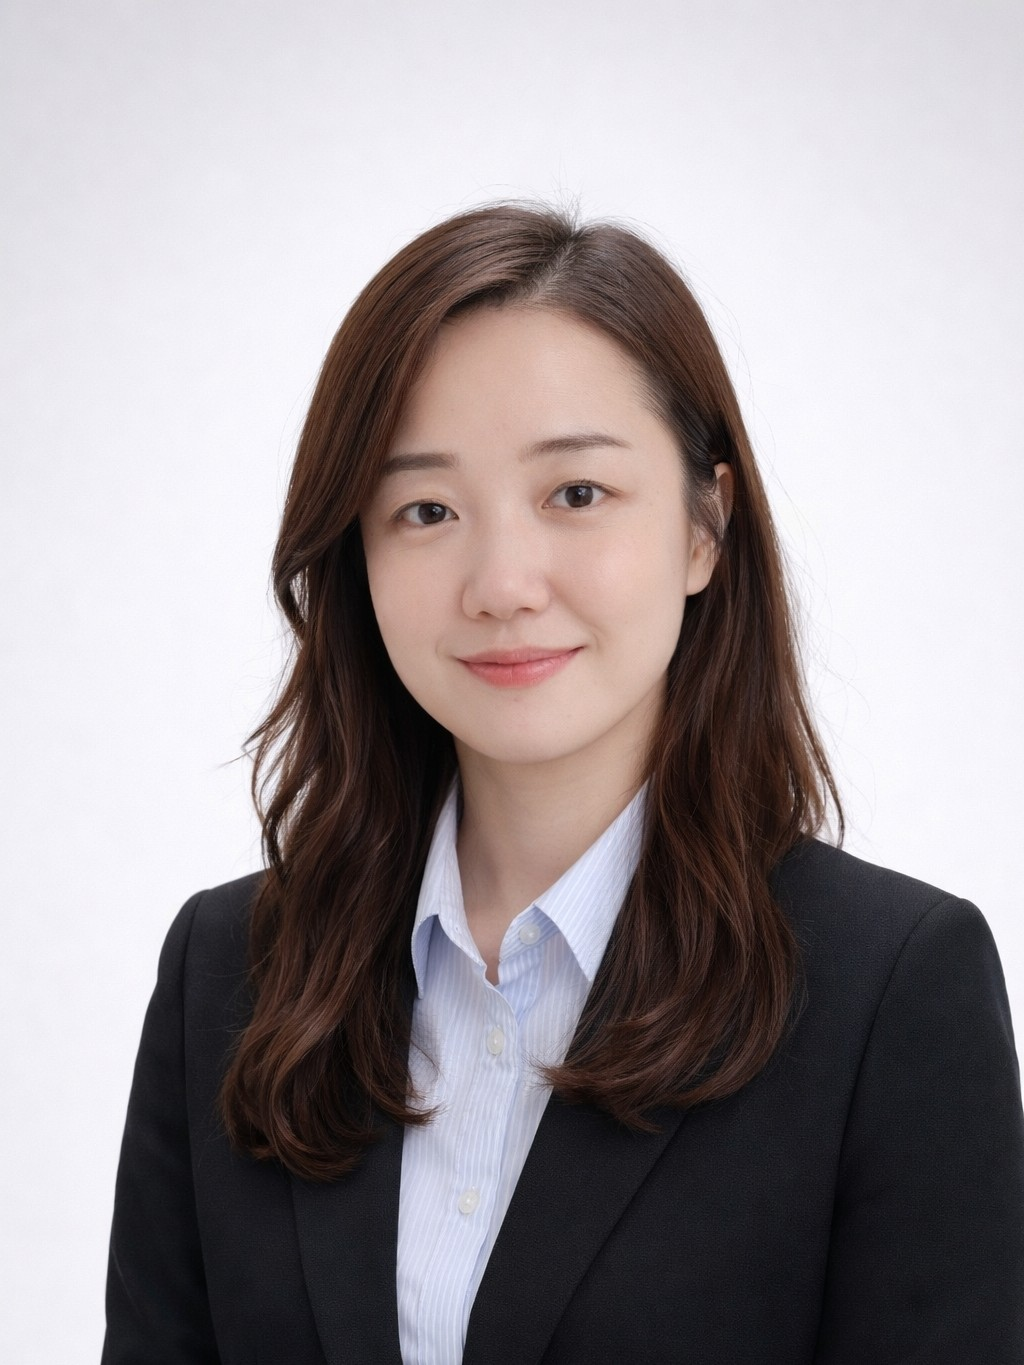
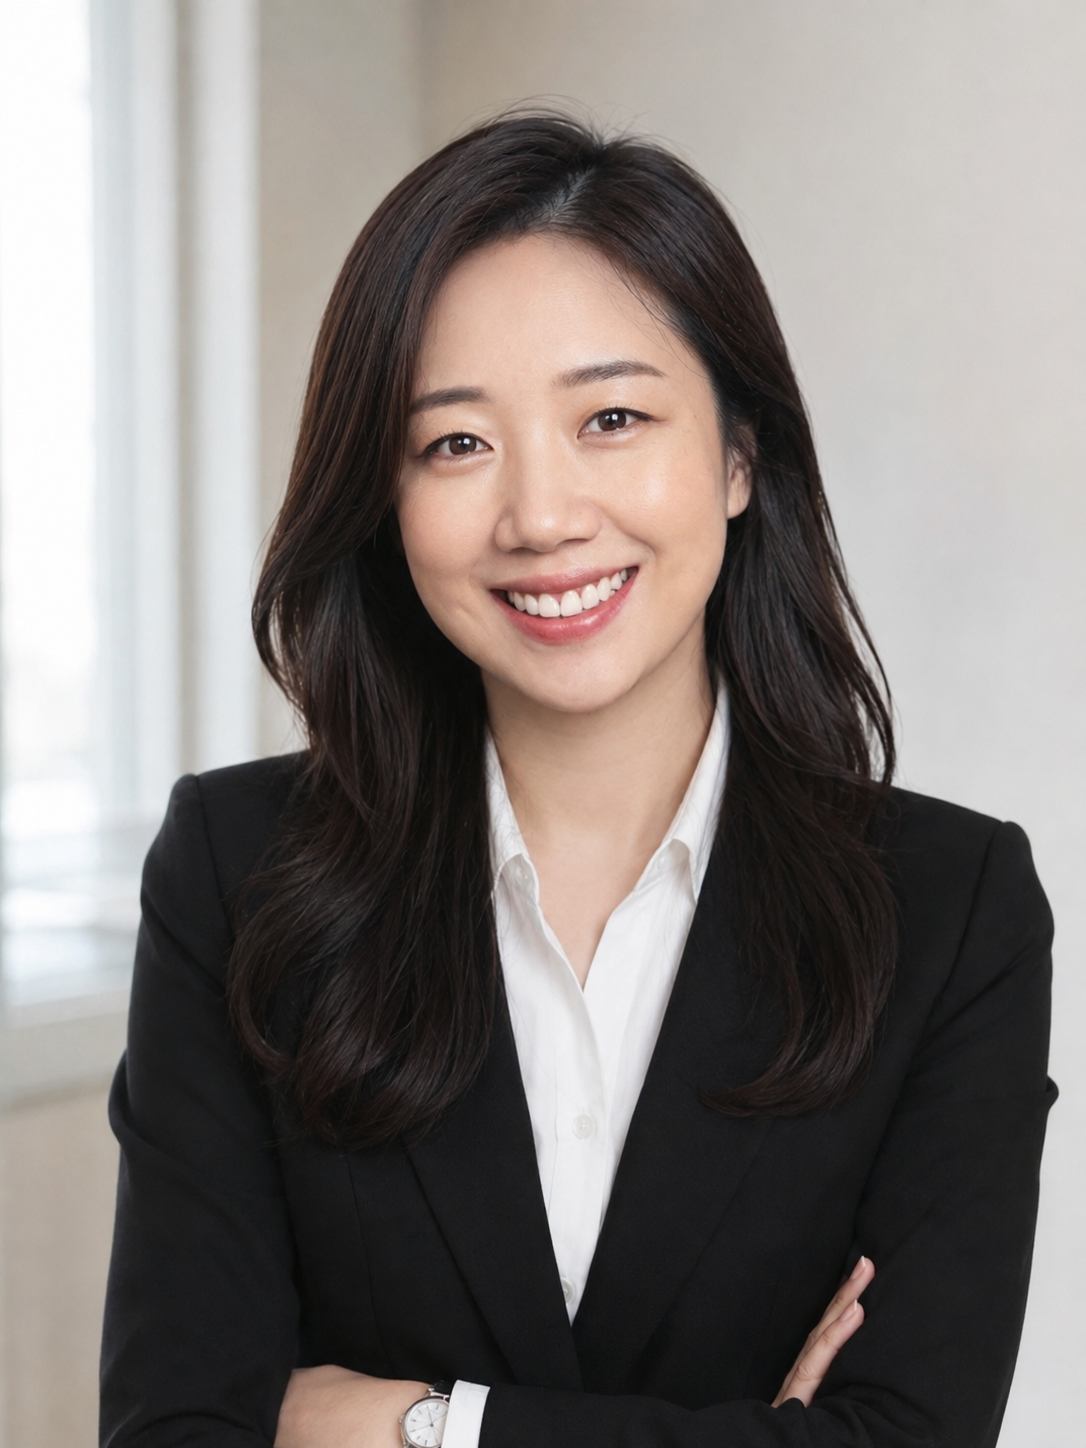
Update principal photo and add 류다윤, 김윤경 teachers
- Replace teacher-jang.jpg with new principal photo
- Add 류다윤 and 김윤경 to 주니어솔로몬 전문교사진 (photo placeholders)
- Add 리딩오션 티칭 to 유지연 and 김윤경 subject areas

diff --git a/introduction.html b/introduction.html
@@ -129,8 +129,34 @@
           <div style="padding:26px;">
             <span style="display:inline-block;font-size:11px;font-weight:700;letter-spacing:0.08em;text-transform:uppercase;color:oklch(56% 0.14 50);margin-bottom:12px;">지도교사</span>
             <div style="font-size:20px;font-weight:800;margin-bottom:4px;">유지연</div>
+            <div style="font-size:13.5px;font-weight:600;color:oklch(45% 0 0);margin-bottom:18px;">독서 · 글쓰기 · 리딩오션 티칭</div>
+            <p style="font-size:14px;color:oklch(38% 0 0);line-height:1.8;margin:0;">풍부한 독서 경험과 체계적인 글쓰기 지도를 바탕으로, 아이들이 자신의 생각을 글로 표현하는 힘을 키울 수 있도록 이끌어갑니다. 리딩오션 프로그램을 통해 영어 독서 역량도 함께 지도합니다.</p>
+          </div>
+        </div>
+
+        <!-- 4. 류다윤 -->
+        <div style="border-right:1px solid oklch(90% 0 0);border-bottom:1px solid oklch(90% 0 0);">
+          <div style="width:100%;aspect-ratio:3/4;overflow:hidden;background:oklch(94% 0 0);display:flex;align-items:center;justify-content:center;">
+            <span style="font-size:48px;font-weight:800;color:oklch(75% 0 0);">류</span>
+          </div>
+          <div style="padding:26px;">
+            <span style="display:inline-block;font-size:11px;font-weight:700;letter-spacing:0.08em;text-transform:uppercase;color:oklch(56% 0.14 50);margin-bottom:12px;">지도교사</span>
+            <div style="font-size:20px;font-weight:800;margin-bottom:4px;">류다윤</div>
             <div style="font-size:13.5px;font-weight:600;color:oklch(45% 0 0);margin-bottom:18px;">독서 · 글쓰기 전문</div>
-            <p style="font-size:14px;color:oklch(38% 0 0);line-height:1.8;margin:0;">풍부한 독서 경험과 체계적인 글쓰기 지도를 바탕으로, 아이들이 자신의 생각을 글로 표현하는 힘을 키울 수 있도록 이끌어갑니다.</p>
+            <p style="font-size:14px;color:oklch(38% 0 0);line-height:1.8;margin:0;">사진 추가 예정</p>
+          </div>
+        </div>
+
+        <!-- 5. 김윤경 -->
+        <div style="border-right:1px solid oklch(90% 0 0);border-bottom:1px solid oklch(90% 0 0);">
+          <div style="width:100%;aspect-ratio:3/4;overflow:hidden;background:oklch(94% 0 0);display:flex;align-items:center;justify-content:center;">
+            <span style="font-size:48px;font-weight:800;color:oklch(75% 0 0);">김</span>
+          </div>
+          <div style="padding:26px;">
+            <span style="display:inline-block;font-size:11px;font-weight:700;letter-spacing:0.08em;text-transform:uppercase;color:oklch(56% 0.14 50);margin-bottom:12px;">지도교사</span>
+            <div style="font-size:20px;font-weight:800;margin-bottom:4px;">김윤경</div>
+            <div style="font-size:13.5px;font-weight:600;color:oklch(45% 0 0);margin-bottom:18px;">독서 · 글쓰기 · 리딩오션 티칭</div>
+            <p style="font-size:14px;color:oklch(38% 0 0);line-height:1.8;margin:0;">사진 추가 예정. 리딩오션 프로그램을 통해 영어 독서 역량을 체계적으로 지도합니다.</p>
           </div>
         </div>
 
